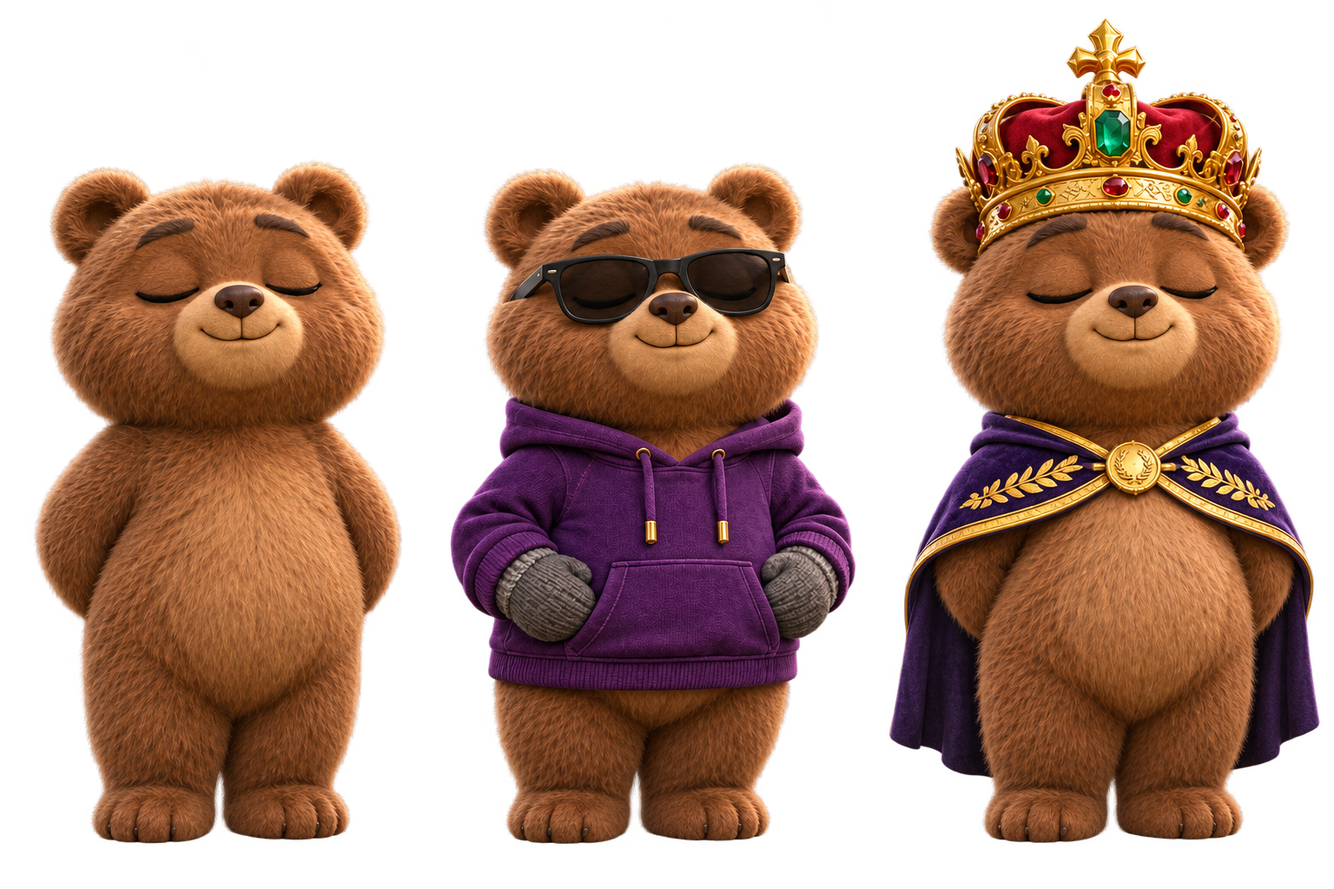
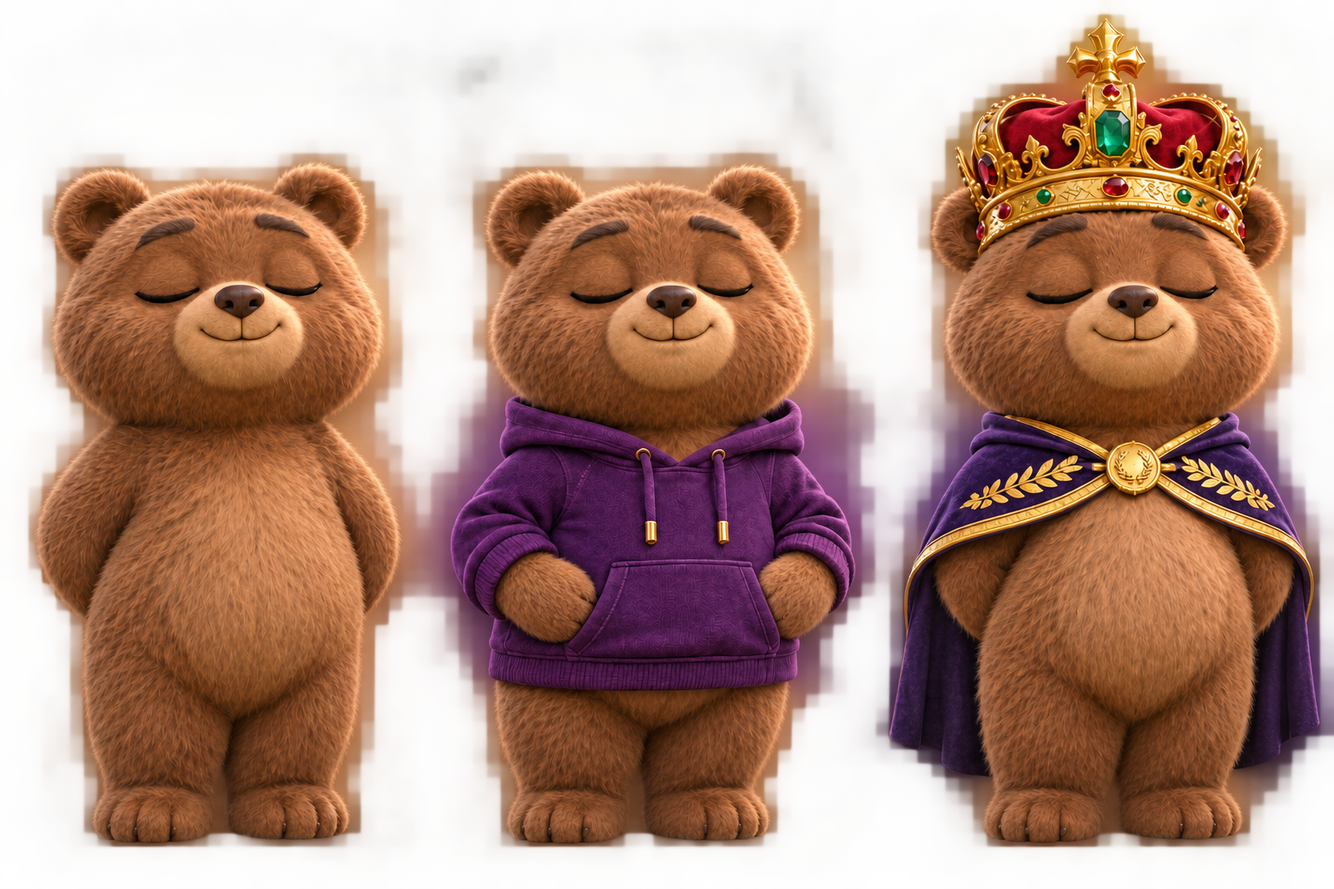
Add files via upload

Changed region(s): [[0.0, 0.0, 1.0, 0.9688], [0.3438, 0.0625, 0.375, 0.125]]

diff --git a/app.js b/app.js
@@ -1,13 +1,19 @@
-const $=id=>document.getElementById(id);let awake=false,paused=false,seconds=0,quiet=0,remaining=1200,timerRunning=false,audio=null,stream=null,analyser=null,last=Date.now(),loudSince=0;
-const props={football:'<circle cx="65" cy="70" r="43" fill="#f1efe2" stroke="#c4c6bc" stroke-width="2"/><path d="M65 48l19 13-7 23H53l-7-23zM31 40l17 7-8 18-17 3M94 39l-15 8 8 19 19 1M35 101l7-21 17 11-2 21M92 101l-6-20-17 11 2 20" fill="#293c3c"/>',hockey:'<path d="M94 8L61 101l-35 8 2 12 49-5 33-104z" fill="#28353b" stroke="#abb7b9" stroke-width="2"/><path d="M88 25l14 5M82 43l14 5M76 61l14 5" stroke="#d8ae58" stroke-width="5"/><path d="M28 112l45-7" stroke="#d9dad3" stroke-width="9"/>',car:'<defs><linearGradient id="blue"><stop stop-color="#539ce2"/><stop offset="1" stop-color="#173c80"/></linearGradient></defs><path d="M10 76l15-20 28-5 21-23h38l28 27 20 9 6 30H10Z" fill="url(#blue)" stroke="#1f3657" stroke-width="2"/><path d="M60 51l18-18h30l20 22z" fill="#263f52" stroke="#9bc7eb" stroke-width="2"/><circle cx="42" cy="94" r="17" fill="#1d252a"/><circle cx="42" cy="94" r="9" fill="#b8c6d1"/><circle cx="134" cy="94" r="17" fill="#1d252a"/><circle cx="134" cy="94" r="9" fill="#b8c6d1"/><path d="M16 70h22m103-3 17 7" stroke="#ddf9ff" stroke-width="5"/><path d="M53 75h67" stroke="#8bbbe7" stroke-width="2"/>',motorcycle:'<circle cx="35" cy="94" r="25" fill="#20292d" stroke="#9dacae" stroke-width="5"/><circle cx="135" cy="94" r="25" fill="#20292d" stroke="#9dacae" stroke-width="5"/><path d="M35 94l36-38 34 38H35l25-15 45 15 18-50 12 50M122 43l-9-23h-18" fill="none" stroke="#c59c47" stroke-width="7"/><path d="M62 48h42l-15 18-24-4z" fill="#33424c" stroke="#90a3ac" stroke-width="2"/><path d="M35 49h33" stroke="#172528" stroke-width="9"/><circle cx="122" cy="39" r="9" fill="#fcf3c4"/>'};
+const $=id=>document.getElementById(id);let awake=false,paused=false,seconds=0,quiet=0,remaining=1200,timerRunning=false,audio=null,stream=null,analyser=null,last=Date.now(),loudSince=0,cooldownUntil=0,activeSeconds=0,previousQuiet=false,micBusy=false,freqData=null,audioPulse=null;
 function showWardrobe(v){$('wardrobe').hidden=!v;$('wardrobenav').classList.toggle('selected',v);$('lessonnav').classList.toggle('selected',!v);if(v)$('wardrobe').scrollIntoView({behavior:'smooth',block:'nearest'})}
 $('wardrobenav').onclick=()=>showWardrobe(true);$('lessonnav').onclick=()=>showWardrobe(false);$('closewardrobe').onclick=()=>showWardrobe(false);
-function choose(kind,value){if(kind==='head'||kind==='body')$('scene').style.setProperty('--'+kind+'x',[0,50,100][Number(value)]+'%');if(kind==='bg')$('scene').className='scene '+(value==='forest'?'':value)+(awake?' isawake':'');if(kind==='prop')$('prop').innerHTML=value?'<svg viewBox="0 0 180 130" aria-label="'+value+'">'+props[value]+'</svg>':'';document.querySelectorAll('[data-'+kind+']').forEach(b=>b.classList.toggle('selected',b.dataset[kind]===String(value)))}
-for(const kind of ['head','body','prop','bg'])document.querySelectorAll('[data-'+kind+']').forEach(b=>b.onclick=()=>choose(kind,b.dataset[kind]));
-function wake(){if(paused)return;awake=true;quiet=0;$('scene').classList.add('isawake');$('status').textContent='Oj! Björnen vaknade. Vi hittar lugnet igen.'}
+const equipment={head:0,eyes:0,body:0,hands:0,prop:'football',bg:'forest'};
+function choose(kind,value){equipment[kind]=value;if(kind==='body')$('scene').style.setProperty('--bodyx',[0,50,100][Number(value)]+'%');if(['head','eyes','hands'].includes(kind))$('scene').style.setProperty('--'+kind+'visible',Number(value)?'1':'0');if(kind==='bg')$('scene').className='scene '+(value==='forest'?'':value)+(awake?' isawake':'');if(kind==='prop'){$('prop').className='prop '+(value||'none');$('prop').setAttribute('role','img');$('prop').setAttribute('aria-label',value||'Inget tillbehör');}document.querySelectorAll('[data-'+kind+']').forEach(b=>b.classList.toggle('selected',b.dataset[kind]===String(value)))}
+for(const kind of ['head','eyes','body','hands','prop','bg'])document.querySelectorAll('[data-'+kind+']').forEach(b=>b.onclick=()=>choose(kind,b.dataset[kind]));
+function wake(){if(paused)return;awake=true;quiet=0;cooldownUntil=Date.now()+4000;$('scene').classList.add('isawake');$('status').textContent='Oj! Björnen vaknade. Vi hittar lugnet igen.'}
 function sleep(){awake=false;$('scene').classList.remove('isawake');$('status').textContent=paused?'Mätningen är pausad.':'Björnen sover. Fortsätt så.'}
-$('wake').onclick=()=>{wake()};$('undo').onclick=sleep;$('pause').onclick=()=>{paused=!paused;document.body.classList.toggle('paused',paused);$('pause').textContent=paused?'Fortsätt':'Pausa';$('status').textContent=paused?'Mätningen är pausad.':awake?'Björnen är vaken. Vi sänker rösterna.':'Björnen sover. Fortsätt så.'};$('threshold').oninput=()=>{$('thresholdvalue').textContent=$('threshold').value;$('limitmark').style.left=$('threshold').value+'%'};
-$('mic').onclick=async()=>{if(stream){stream.getTracks().forEach(t=>t.stop());await audio.close();stream=null;analyser=null;$('mic').textContent='Starta mikrofon';return}try{stream=await navigator.mediaDevices.getUserMedia({audio:{echoCancellation:false,noiseSuppression:false,autoGainControl:false}});audio=new AudioContext();analyser=audio.createAnalyser();analyser.fftSize=1024;audio.createMediaStreamSource(stream).connect(analyser);$('mic').textContent='Stäng mikrofon';$('status').textContent='Mikrofonen lyssnar — prova ljudgränsen.'}catch(e){$('status').textContent='Mikrofonen kunde inte startas. Prova väckningsknappen istället.'}};
+$('wake').onclick=()=>{wake()};$('undo').onclick=sleep;$('pause').onclick=()=>{paused=!paused;document.body.classList.toggle('paused',paused);$('pause').textContent=paused?'Fortsätt':'Pausa';loudSince=0;previousQuiet=false;$('status').textContent=paused?'Mätningen är pausad.':awake?'Björnen är vaken. Vi sänker rösterna.':'Björnen sover. Fortsätt så.'};$('threshold').oninput=()=>{$('thresholdvalue').textContent=$('threshold').value;$('limitmark').style.left=$('threshold').value+'%'};
+async function stopMic(){if(stream)stream.getTracks().forEach(t=>{t.onended=null;t.stop()});stream=null;analyser=null;freqData=null;if(audioPulse){audioPulse.port.onmessage=null;audioPulse.disconnect();audioPulse=null}if(audio){await audio.close().catch(()=>{});audio=null}loudSince=0;previousQuiet=false;$('mic').textContent='Starta mikrofon';$('livelevel').textContent='Mikrofon av';$('soundbar').style.width='0%';sleep()}
+$('mic').onclick=async()=>{if(micBusy)return;if(stream){await stopMic();return}micBusy=true;$('mic').disabled=true;$('mic').textContent='Startar …';try{if(!navigator.mediaDevices?.getUserMedia)throw new Error('unsupported');stream=await navigator.mediaDevices.getUserMedia({audio:true,video:false});const Ctx=window.AudioContext||window.webkitAudioContext;audio=new Ctx();await audio.resume();analyser=audio.createAnalyser();analyser.fftSize=256;audio.createMediaStreamSource(stream).connect(analyser);freqData=new Uint8Array(analyser.frequencyBinCount);stream.getAudioTracks().forEach(t=>t.onended=()=>{stopMic();$('status').textContent='Mikrofonen kopplades bort. Starta den igen.'});
+// AudioWorklet keeps sampling driven by the audio device, independent of drawing.
+if(audio.audioWorklet){const code=`class Pulse extends AudioWorkletProcessor{constructor(){super();this.n=0}process(){this.n+=128;if(this.n>=sampleRate/10){this.n=0;this.port.postMessage(1)}return true}}registerProcessor('bear-demo-pulse',Pulse)`;const u=URL.createObjectURL(new Blob([code],{type:'text/javascript'}));try{await audio.audioWorklet.addModule(u);audioPulse=new AudioWorkletNode(audio,'bear-demo-pulse');const silent=audio.createGain();silent.gain.value=0;analyser.connect(audioPulse);audioPulse.connect(silent);silent.connect(audio.destination);audioPulse.port.onmessage=sampleSound}catch{}finally{URL.revokeObjectURL(u)}}
+lastSample=Date.now();$('mic').textContent='Stäng mikrofon';$('status').textContent='Mikrofonen lyssnar. Justera ljudgränsen.';}catch(e){await stopMic();$('status').textContent=e.name==='NotAllowedError'?'Tillåt mikrofonen i webbläsarens webbplatsinställningar.':e.name==='NotFoundError'?'Ingen mikrofon hittades. Kontrollera vald ljudingång.':'Mikrofonen kunde inte startas. Öppna via HTTPS eller localhost och kontrollera vald mikrofon.';}finally{micBusy=false;$('mic').disabled=false}};
+let lastSample=Date.now();
+function sampleSound(){if(!analyser||!freqData)return;const now=Date.now(),gap=(now-lastSample)/1000,dt=gap<=.5?gap:0;lastSample=now;if(gap>.5){loudSince=0;previousQuiet=false}analyser.getByteFrequencyData(freqData);let sum=0;for(const v of freqData)sum+=v;const volume=Math.min(100,Math.round((sum/freqData.length)/128*100)),limit=Number($('threshold').value),isQuiet=volume<=limit;$('soundbar').style.width=volume+'%';$('livelevel').textContent='Ljud '+volume+' %';$('livelevel').classList.toggle('loud',!isQuiet);if(paused){loudSince=0;previousQuiet=false;return}if(awake){if(now>=cooldownUntil&&isQuiet)sleep();previousQuiet=false;return}if(limit<50){activeSeconds+=dt;if(isQuiet&&previousQuiet){quiet+=dt;seconds+=dt}}if(isQuiet)loudSince=0;else{loudSince+=dt;if(loudSince>=1)wake()}previousQuiet=isQuiet; $('streak').textContent=fmt(quiet);$('points').textContent=limit>=50?'—':((seconds/60)*(seconds/Math.max(1,activeSeconds))).toFixed(1).replace('.',',');}
 const fmt=s=>String(Math.floor(s/60)).padStart(2,'0')+':'+String(Math.floor(s%60)).padStart(2,'0');$('timerstart').onclick=()=>{timerRunning=!timerRunning;$('timerstart').textContent=timerRunning?'Pausa':'Starta'};$('timerreset').onclick=()=>{remaining=1200;timerRunning=false;$('timerstart').textContent='Starta';$('timer').textContent=fmt(remaining)};
-setInterval(()=>{const now=Date.now(),dt=(now-last)/1000;last=now;$('clock').textContent=new Date().toLocaleTimeString('sv-SE',{hour:'2-digit',minute:'2-digit'});if(timerRunning){remaining=Math.max(0,remaining-dt);$('timer').textContent=fmt(remaining);if(!remaining)timerRunning=false}if(!paused&&analyser){const a=new Float32Array(analyser.fftSize);analyser.getFloatTimeDomainData(a);const rms=Math.sqrt(a.reduce((s,v)=>s+v*v,0)/a.length);const level=Math.max(0,Math.min(100,(20*Math.log10(Math.max(.00001,rms))+70)*1.6));$('soundbar').style.width=level+'%';if(level>Number($('threshold').value)){loudSince+=dt;if(loudSince>=1&&!awake)wake()}else{loudSince=0;if(awake)sleep();quiet+=dt;seconds+=dt;$('streak').textContent=fmt(quiet);$('points').textContent=(seconds/60).toFixed(1).replace('.',',')}}},100);
-$('full').onclick=async()=>{if(document.fullscreenElement)await document.exitFullscreen();else await document.documentElement.requestFullscreen()};$('end').onclick=()=>$('reward').showModal();$('later').onclick=()=>$('reward').close();$('wear').onclick=()=>{choose('head',2);choose('body',2);choose('bg','royal');choose('prop','motorcycle');$('reward').close()};$('resetoutfit').onclick=()=>{choose('head',0);choose('body',0);choose('prop','');choose('bg','forest')};choose('head',0);choose('body',0);choose('prop','football');choose('bg','forest');
+setInterval(()=>{const now=Date.now(),dt=(now-last)/1000;last=now;$('clock').textContent=new Date().toLocaleTimeString('sv-SE',{hour:'2-digit',minute:'2-digit'});if(timerRunning){remaining=Math.max(0,remaining-dt);$('timer').textContent=fmt(remaining);if(!remaining){timerRunning=false;$('timerstart').textContent='Starta'}}if(!audioPulse)sampleSound();},100);
+$('full').onclick=async()=>{if(document.fullscreenElement)await document.exitFullscreen();else await document.documentElement.requestFullscreen()};$('end').onclick=()=>$('reward').showModal();$('later').onclick=()=>$('reward').close();$('wear').onclick=()=>{choose('head',2);choose('body',2);choose('bg','aurora');choose('prop','motorcycle');$('reward').close()};$('resetoutfit').onclick=()=>{choose('head',0);choose('eyes',0);choose('hands',0);choose('body',0);choose('prop','');choose('bg','forest')};choose('head',0);choose('eyes',0);choose('hands',0);choose('body',0);choose('prop','football');choose('bg','forest');

diff --git a/index.html b/index.html
@@ -1,1 +1,1 @@
-<!doctype html><html lang="sv"><meta charset="utf-8"><meta name="viewport" content="width=device-width,initial-scale=1"><title>Björnverkstaden · Fristående test</title><link rel="stylesheet" href="style.css"><body><header><b>Klasskampen<span>TYSTNADSMÄSTARNA</span></b><nav><button id="lessonnav" class="selected">Klassrum</button><button id="wardrobenav">Provgarderob</button><button id="full">Helskärm</button></nav></header><div class="notice">BJÖRNVERKSTADEN · UTAN FIREBASE · Bara lek och test</div><main><div class="lessonhead"><div><small>5A · BENNY GUSTAFSSON</small><h1>En sak i taget.</h1></div><div><button id="mic">Starta mikrofon</button><button id="end">Prova lektionsavslut</button></div></div><div class="classroom"><section class="panel checklist"><small>LEKTIONENS MOMENT</small><h2>Idag gör vi det här</h2><label><input type="checkbox"> Startuppgift</label><label><input type="checkbox"> Arbeta i era häften</label><label><input type="checkbox"> Exit ticket</label><h3>Instruktioner</h3><p contenteditable="true">Arbeta i lugn takt. Hjälp varandra och låt björnen vila.</p></section><section class="scene" id="scene"><span class="level">KLASSENS BJÖRN · 5A</span><div class="character" id="character"><div class="part sleep bodypart"></div><div class="part sleep headpart"></div><div class="part awake bodypart"></div><div class="part awake headpart"></div></div><div id="prop" class="prop"></div><span class="zzz">z Z</span><div class="bearstatus"><h2 id="status">Björnen sover. Fortsätt så.</h2><div class="meter"><i id="soundbar"></i><b id="limitmark"></b></div><div class="scores"><span>Obruten tystnad<strong id="streak">00:00</strong></span><span>Fokuspoäng<strong id="points">0,0</strong></span></div></div></section><section class="right"><article class="panel"><small>LEKTIONSTIMER</small><h2>Arbeta i lugn och ro</h2><div class="timer" id="timer">20:00</div><button id="timerstart">Starta</button><button id="timerreset">Återställ</button></article><article class="panel"><small>JUST NU</small><div class="clock" id="clock"></div><p>Prova gärna att byta outfit medan björnen är vaken.</p></article></section></div><section class="controls"><label>Ljudgräns <input id="threshold" type="range" min="10" max="70" value="35"><span id="thresholdvalue">35</span></label><button id="pause">Pausa</button><button id="wake">Prova väckning</button><button id="undo">Ångra väckning</button></section><section class="wardrobe panel" id="wardrobe" hidden><div class="wardrobetop"><div><small>ALLT ÄR UPPLÅST I DEMON</small><h2>Björnens provgarderob</h2><p>Ändra huvud och kropp var för sig. Björnen behåller kläderna när den vaknar.</p></div><button id="closewardrobe">Stäng garderoben</button></div><div class="wardrobegrid"><div><h3>Huvud</h3><button data-head="0">Original</button><button data-head="1">Solglasögon</button><button data-head="2">Kungakronan · Epic</button></div><div><h3>Kropp & tassar</h3><button data-body="0">Päls</button><button data-body="1">Hoodie & vantar</button><button data-body="2">Kungamantel</button><p class="small">Kropp och tassar är ett gemensamt plagg i detta första bildprov.</p></div><div><h3>Bredvid</h3><button data-prop="">Inget</button><button data-prop="football">Fotboll</button><button data-prop="hockey">Hockeyklubba</button><button data-prop="car">Sportbil</button><button data-prop="motorcycle">Motorcykel</button></div><div><h3>Bakgrund</h3><button data-bg="forest">Skogsglänta</button><button data-bg="night">Stjärnkväll</button><button data-bg="royal">Kunglig kväll</button><button id="resetoutfit">Återställ outfit</button></div></div><p class="small">Det här testar idén med bildlager. Innan riktiga skins släpps behöver varje del passas in och varje kombination kontrolleras.</p></section></main><dialog id="reward"><small>LEKTIONEN ÄR KLAR</small><h2>En ny stil är upplåst!</h2><p>Klassen klarade 20 minuters streak.</p><strong>Kunglig provoutfit</strong><p>En demonstration av belöningsceremonin.</p><button id="wear">Prova outfiten</button><button id="later">Senare</button></dialog><script src="app.js"></script></body></html>
+<!doctype html><html lang="sv"><meta charset="utf-8"><meta name="viewport" content="width=device-width,initial-scale=1"><title>Klasskampen · Björn & garderob</title><link rel="stylesheet" href="style.css"><body><header><b>Klasskampen<span>TYSTNADSMÄSTARNA</span></b><nav><button id="lessonnav" class="selected">Klassrum</button><button id="wardrobenav">Provgarderob</button><button id="full">Helskärm</button></nav></header><div class="notice">BJÖRNVERKSTADEN · UTAN FIREBASE · Bara lek och test</div><main><div class="lessonhead"><div><small>5A · BENNY GUSTAFSSON</small><h1>En sak i taget.</h1></div><div><button id="mic">Starta mikrofon</button><button id="end">Prova lektionsavslut</button></div></div><div class="classroom"><section class="panel checklist"><small>LEKTIONENS MOMENT</small><h2>Idag gör vi det här</h2><label><input type="checkbox"> Startuppgift</label><label><input type="checkbox"> Arbeta i era häften</label><label><input type="checkbox"> Exit ticket</label><h3>Instruktioner</h3><p contenteditable="true">Arbeta i lugn takt. Hjälp varandra och låt björnen vila.</p></section><section class="scene" id="scene"><span class="level">KLASSENS BJÖRN · 5A</span><div class="character" id="character"><div class="part sleep basepart"></div><div class="part awake basepart"></div><div class="part sleep bodypart"></div><div class="part awake bodypart"></div><div class="part sleep headpart"></div><div class="part awake headpart"></div><div class="part sleep eyespart"></div><div class="part awake eyespart"></div><div class="part sleep handspart left"></div><div class="part awake handspart left"></div><div class="part sleep handspart right"></div><div class="part awake handspart right"></div></div><div id="prop" class="prop"></div><span class="zzz">z Z</span><div class="bearstatus"><h2 id="status">Björnen sover. Fortsätt så.</h2><div class="meter"><i id="soundbar"></i><b id="limitmark"></b></div><div class="scores"><span>Obruten tystnad<strong id="streak">00:00</strong></span><span>Testpoäng<strong id="points">—</strong></span></div></div></section><section class="right"><article class="panel"><small>LEKTIONSTIMER</small><h2>Arbeta i lugn och ro</h2><div class="timer" id="timer">20:00</div><button id="timerstart">Starta</button><button id="timerreset">Återställ</button></article><article class="panel"><small>JUST NU</small><div class="clock" id="clock"></div><p>Prova gärna att byta outfit medan björnen är vaken.</p></article></section></div><section class="controls"><label>Ljudgräns <input id="threshold" type="range" min="1" max="70" value="35"><span id="thresholdvalue">35</span><span id="livelevel">Mikrofon av</span></label><button id="pause">Pausa</button><button id="wake">Prova väckning</button><button id="undo">Ångra väckning</button></section><section class="wardrobe panel" id="wardrobe" hidden><div class="wardrobetop"><div><small>ALLT ÄR UPPLÅST I DEMON</small><h2>Björnens provgarderob</h2><p>Sex oberoende val. Prova en kombination och väck björnen — outfiten följer med.</p></div><button id="closewardrobe">Stäng garderoben</button></div><div class="wardrobegrid"><div><h3>01 · Ögon / glasögon</h3><button data-eyes="0">Utan glasögon</button><button data-eyes="1">Svarta solglasögon</button></div><div><h3>02 · Huvudbonad</h3><button data-head="0">Ingen huvudbonad</button><button data-head="2">Kungakronan · Epic</button></div><div><h3>03 · Kropp</h3><button data-body="0">Päls</button><button data-body="1">Lila hoodie</button><button data-body="2">Kungamantel</button></div><div><h3>04 · Tassar / vantar</h3><button data-hands="0">Bara tassar</button><button data-hands="1">Stickade vantar</button></div><div><h3>05 · Bredvid</h3><button data-prop="">Inget</button><button data-prop="football">Fotboll</button><button data-prop="hockey">Hockeyklubba</button><button data-prop="car">Blå sportbil</button><button data-prop="motorcycle">Svartguldmotorcykel</button></div><div><h3>06 · Bakgrund</h3><button data-bg="forest">Sagoskogen</button><button data-bg="stadium">Fotbollsarenan</button><button data-bg="aurora">Norrskensnatten</button><button id="resetoutfit">Återställ outfit</button></div></div><p class="small">Grafikverkstad: ett fåtal val per plats för att prova bildlager. Antal skins och belöningsmål bestämmer vi senare.</p></section></main><dialog id="reward"><small>LEKTIONEN ÄR KLAR</small><h2>En ny stil är upplåst!</h2><p>Klassen klarade 20 minuters streak.</p><strong>Kunglig provoutfit</strong><p>En demonstration av belöningsceremonin.</p><button id="wear">Prova outfiten</button><button id="later">Senare</button></dialog><script src="app.js"></script></body></html>

diff --git a/style.css b/style.css
@@ -1,2 +1,19 @@
 *{box-sizing:border-box}[hidden]{display:none!important}body{margin:0;background:#f2f4ef;color:#263c32;font:16px/1.5 system-ui}button{font:inherit;padding:9px 14px;border:1px solid #d2dbd1;background:#fff;color:#2e4c3b;border-radius:9px;cursor:pointer}button:hover,button.selected{background:#345a43;color:#fff}button:focus-visible,input:focus-visible{outline:3px solid #b694d7}header{padding:18px 3%;display:flex;justify-content:space-between;align-items:center;border-bottom:1px solid #d6ded3}header>b{font-size:25px;letter-spacing:-1px}header>b span{display:block;font-size:10px;letter-spacing:2px;color:#728373}nav{display:flex;gap:8px}.notice{font-size:11px;text-align:center;background:#e4ebdf;color:#586f5b;padding:6px;letter-spacing:1px}main{padding:22px 3%;max-width:1800px;margin:auto}.lessonhead{display:flex;justify-content:space-between;align-items:center;margin-bottom:20px}small{font-size:11px;letter-spacing:1.6px;font-weight:750;color:#718573}h1{margin:3px 0;font-size:30px}h2{font-size:20px;margin:8px 0 18px}h3{font-size:15px}p{color:#6a7c6d} .classroom{display:grid;grid-template-columns:1fr 1.5fr .9fr;gap:20px}.panel{background:white;border:1px solid #dce3d7;border-radius:18px;padding:22px}.checklist label{display:flex;align-items:center;gap:10px;border-bottom:1px solid #e1e7dd;padding:18px 0;font-size:18px}.checklist input{width:25px;height:25px;accent-color:#3f664b}.checklist label:has(input:checked){color:#92a091;text-decoration:line-through}.checklist h3{margin-top:30px}.scene{min-height:540px;border-radius:20px;overflow:hidden;position:relative;background:radial-gradient(ellipse at 75% 0%,#d7e4bb,#789b7b 65%,#4c725d);--headx:0%;--bodyx:0%}.scene.night{background:radial-gradient(ellipse at 70% 0%,#a6a1c3,#414d77 65%,#293747)}.scene.royal{background:radial-gradient(ellipse at 75% 0%,#e7c483,#a89169 65%,#615e4e)}.level{position:absolute;top:18px;left:20px;font-size:11px;letter-spacing:2px;color:#f3f6e5;font-weight:750;z-index:5}.character{position:absolute;width:88%;left:6%;top:8%;height:70%;transform-origin:50% 96%;animation:breathe 4.8s ease-in-out infinite}.part{position:absolute;inset:0;background-size:300% 100%;background-repeat:no-repeat;transition:opacity .35s}.sleep{background-image:url('sleep.png')}.awake{background-image:url('wake.png');opacity:0}.headpart{background-position:var(--headx) center;clip-path:inset(0 0 50% 0)}.bodypart{background-position:var(--bodyx) center;clip-path:inset(50% 0 0 0)}.isawake .sleep{opacity:0}.isawake .awake{opacity:1}.isawake .character{animation:wake .7s ease-out}.bearstatus{position:absolute;bottom:18px;left:22px;right:22px;color:#f5f8ed;z-index:5}.bearstatus h2{font-size:18px;text-align:center;text-shadow:0 1px 5px #334a3c}.meter{height:8px;background:#ffffff5c;border-radius:8px;position:relative;overflow:hidden}.meter i{display:block;height:100%;width:0;background:#f2d385;transition:width .15s}.meter b{position:absolute;top:0;bottom:0;left:35%;width:3px;background:#284e35}.scores{display:flex;justify-content:space-between;margin-top:12px;font-size:12px}.scores strong{display:block;font-size:30px}.zzz{position:absolute;right:14%;top:14%;font-size:25px;color:#fff9da;animation:zzz 4s infinite}.isawake .zzz{opacity:0;animation:none}.right{display:flex;flex-direction:column;gap:18px}.right .panel{text-align:center}.timer{font-size:clamp(35px,4vw,60px);font-variant-numeric:tabular-nums;letter-spacing:-2px;margin:30px auto;border:7px solid #bd8466;border-radius:50%;aspect-ratio:1;max-width:210px;display:grid;place-items:center}.clock{font-size:42px;font-weight:650}.right p{font-size:13px}.controls{display:flex;gap:10px;justify-content:center;align-items:center;margin:22px 0;flex-wrap:wrap}.controls label{display:flex;align-items:center;gap:12px;font-size:14px}.controls input{width:200px;accent-color:#50775a}.wardrobetop{display:flex;justify-content:space-between;align-items:start;gap:20px}.wardrobetop p{font-size:14px}.wardrobegrid{display:grid;grid-template-columns:repeat(4,1fr);gap:20px}.wardrobegrid button{display:block;margin:7px 0;width:100%;text-align:left;font-size:14px}.small{font-size:12px}.prop{position:absolute;right:2%;bottom:24%;width:32%;height:22%;z-index:4;filter:drop-shadow(0 8px 5px #233c3360)}.prop svg{height:100%;width:100%}dialog{border:0;border-radius:24px;padding:35px;text-align:center;color:#294832;max-width:480px}dialog::backdrop{background:#172f28b9;backdrop-filter:blur(5px)}:fullscreen header,:fullscreen .notice,:fullscreen .lessonhead{display:none}:fullscreen main{padding-top:20px}:fullscreen .scene{min-height:76vh}.paused .character{animation-play-state:paused}@keyframes breathe{50%{transform:scale(1.012,1.026) translateY(-2px)}}@keyframes zzz{0%{opacity:0;transform:translateY(10px)}40%{opacity:.7}100%{opacity:0;transform:translateY(-25px)}}@keyframes wake{30%{transform:translateY(-12px) rotate(-2deg)}65%{transform:rotate(1deg)}}@media(max-width:1050px){.classroom{grid-template-columns:.9fr 1.3fr}.right{grid-column:1/-1;display:grid;grid-template-columns:1fr 1fr}.right .timer{font-size:38px;max-width:150px;margin:15px auto}.wardrobegrid{grid-template-columns:1fr 1fr}.scene{min-height:530px}.lessonhead{gap:14px}.lessonhead button{font-size:13px}}@media(max-width:650px){.classroom{display:flex;flex-direction:column}.scene{height:600px}.right{display:flex}.wardrobegrid{grid-template-columns:1fr 1fr}header{gap:10px}nav button{font-size:12px;padding:8px}header>b{font-size:20px}.lessonhead{align-items:start}.lessonhead>div:last-child{display:flex;flex-direction:column;gap:5px}}@media(prefers-reduced-motion:reduce){*{animation:none!important;transition:none!important}}
 .character{width:auto;max-width:88%;aspect-ratio:1/2;height:70%;left:0;right:0;margin-inline:auto}.bearstatus h2{margin-bottom:22px}.scene .character{top:5%}
+
+/* Six independent equipment layers. */
+.wardrobegrid{grid-template-columns:repeat(3,1fr)}
+.scene{--headvisible:0;--eyesvisible:0;--handsvisible:0;--bodyx:0%;background-image:linear-gradient(#152b2210,#152b2244),url('backgrounds.png');background-size:100% 100%,300% 100%;background-position:center,0% center}
+.scene.stadium{background-position:center,50% center}.scene.aurora{background-position:center,100% center}
+.basepart{background-position:0% center}.bodypart{clip-path:inset(47% 0 0 0);background-position:var(--bodyx) center}
+.headpart{clip-path:inset(0 0 72% 0);background-position:100% center}
+.eyespart{background-position:50% center;clip-path:inset(27% 19% 63% 13%)}
+.handspart{background-position:50% center;clip-path:polygon(5% 58%,34% 58%,38% 72%,5% 73%,5% 58%,66% 58%,95% 58%,95% 73%,62% 72%,66% 58%)}
+.eyespart.sleep,.handspart.sleep{background-image:url('accessories-sleep.png')}.eyespart.awake,.handspart.awake{background-image:url('accessories-wake.png')}
+.headpart.sleep{opacity:var(--headvisible)}.headpart.awake{opacity:0}.isawake .headpart.sleep{opacity:0}.isawake .headpart.awake{opacity:var(--headvisible)}
+.eyespart.sleep{opacity:var(--eyesvisible)}.eyespart.awake{opacity:0}.isawake .eyespart.sleep{opacity:0}.isawake .eyespart.awake{opacity:var(--eyesvisible)}
+.handspart.sleep{opacity:var(--handsvisible)}.handspart.awake{opacity:0}.isawake .handspart.sleep{opacity:0}.isawake .handspart.awake{opacity:var(--handsvisible)}
+.prop{background-image:url('props.png');background-size:200% 200%;background-repeat:no-repeat;width:40%;height:auto;aspect-ratio:1;bottom:24%;right:0}.prop:empty{display:block}.prop.none{display:none}.prop.football{background-position:0% 0%}.prop.hockey{background-position:100% 0%;height:46%;width:auto;aspect-ratio:1;right:-9%}.prop.car{background-position:0% 100%;width:48%;bottom:23%;right:-1%}.prop.motorcycle{background-position:100% 100%;width:46%;bottom:23%;right:-1%}
+.bearstatus{background:linear-gradient(transparent,#163528d9);left:0;right:0;bottom:0;padding:25px 22px 18px}.level{background:#173b2a80;padding:7px 10px;border-radius:6px}.scene .character{height:70%;top:5%}.controls #livelevel{font-size:12px;min-width:100px}.controls .loud{color:#a23c30;font-weight:750}.wardrobegrid>div{background:#f3f6ef;border-radius:12px;padding:14px}.wardrobegrid h3{margin:0 0 12px}
+@media(max-width:700px){.wardrobegrid{grid-template-columns:repeat(2,1fr)}}
+.handspart.left{clip-path:inset(60% 64% 27% 9%)}.handspart.right{clip-path:inset(60% 11% 27% 64%)}
